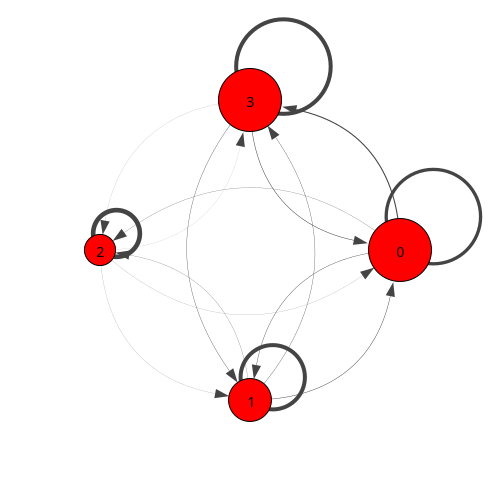
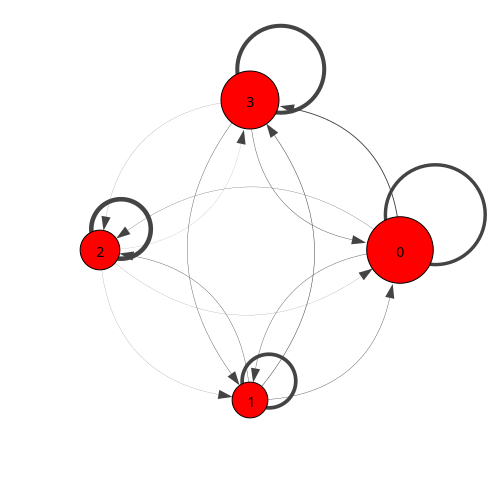
Fix trans-perfect.png figure and update results.

diff --git a/sec-results.tex b/sec-results.tex
@@ -273,7 +273,7 @@ had perfect marks. To prevent the latent state meanings from drifting, we
 forced the model parameters associated with their Markov model
 representations to be fixed, in effect only learning initial and transition
 probabilities for the top layer of our TL-HMM.\ We show the updated latent
-state transition diagram in Figure~\ref{fig:trans-perfect}. While the
-differences are small, we do in fact see what we suspected: states 1 and 2
-have higher probability in the ``perfect'' student group compared to the
-model learned on all students, and states 0 and 3 have lower probability.
+state transition diagram in Figure~\ref{fig:trans-perfect}. We can clearly
+see that the probability of state 2 has increased dramatically, while the
+probability of states 0 and 3 has decreased. State 1 had its probability
+increase, but only very slightly.
